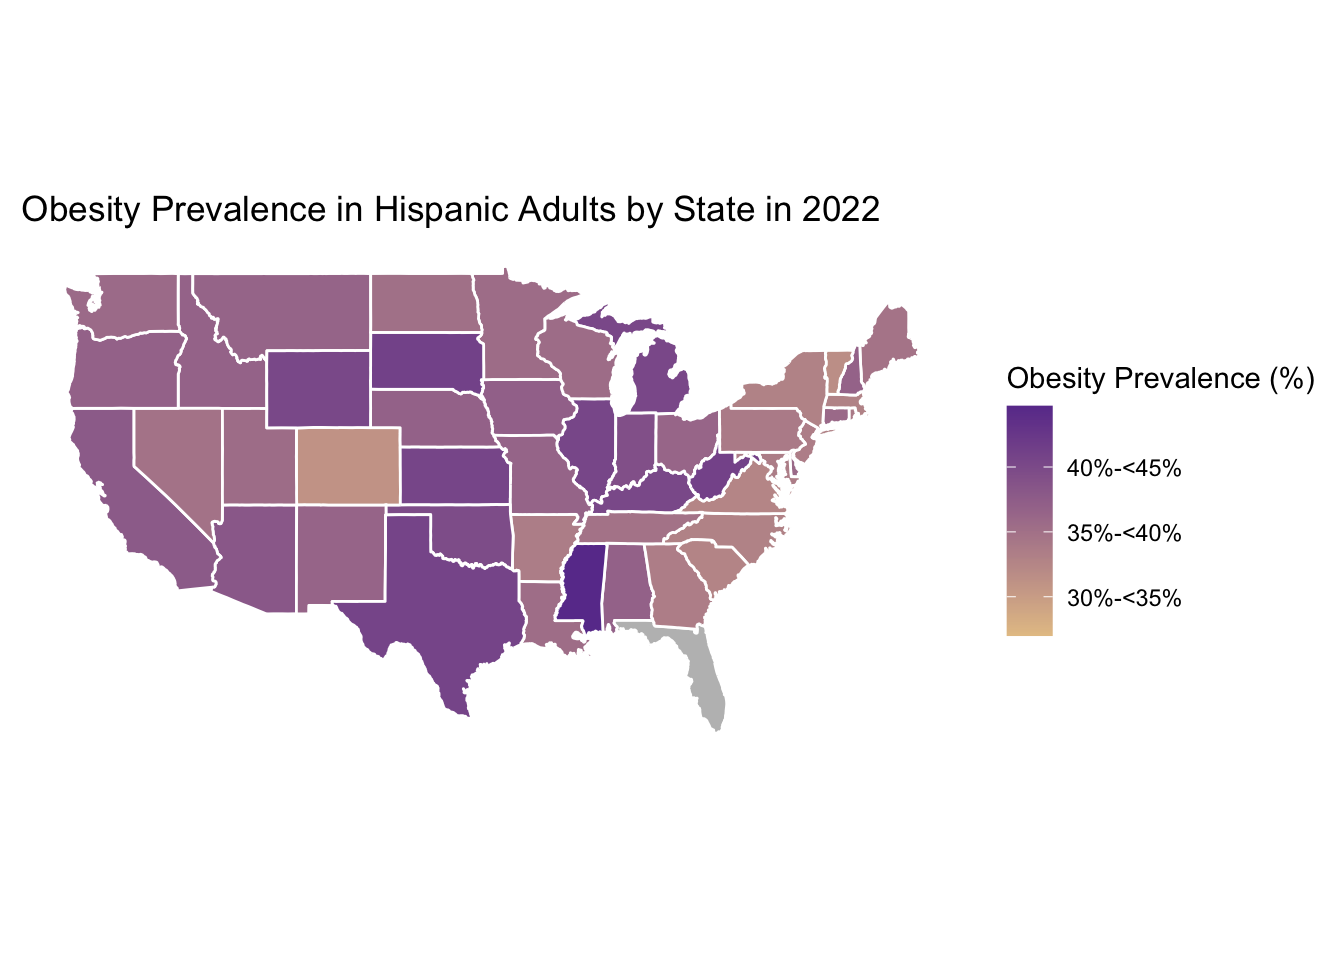
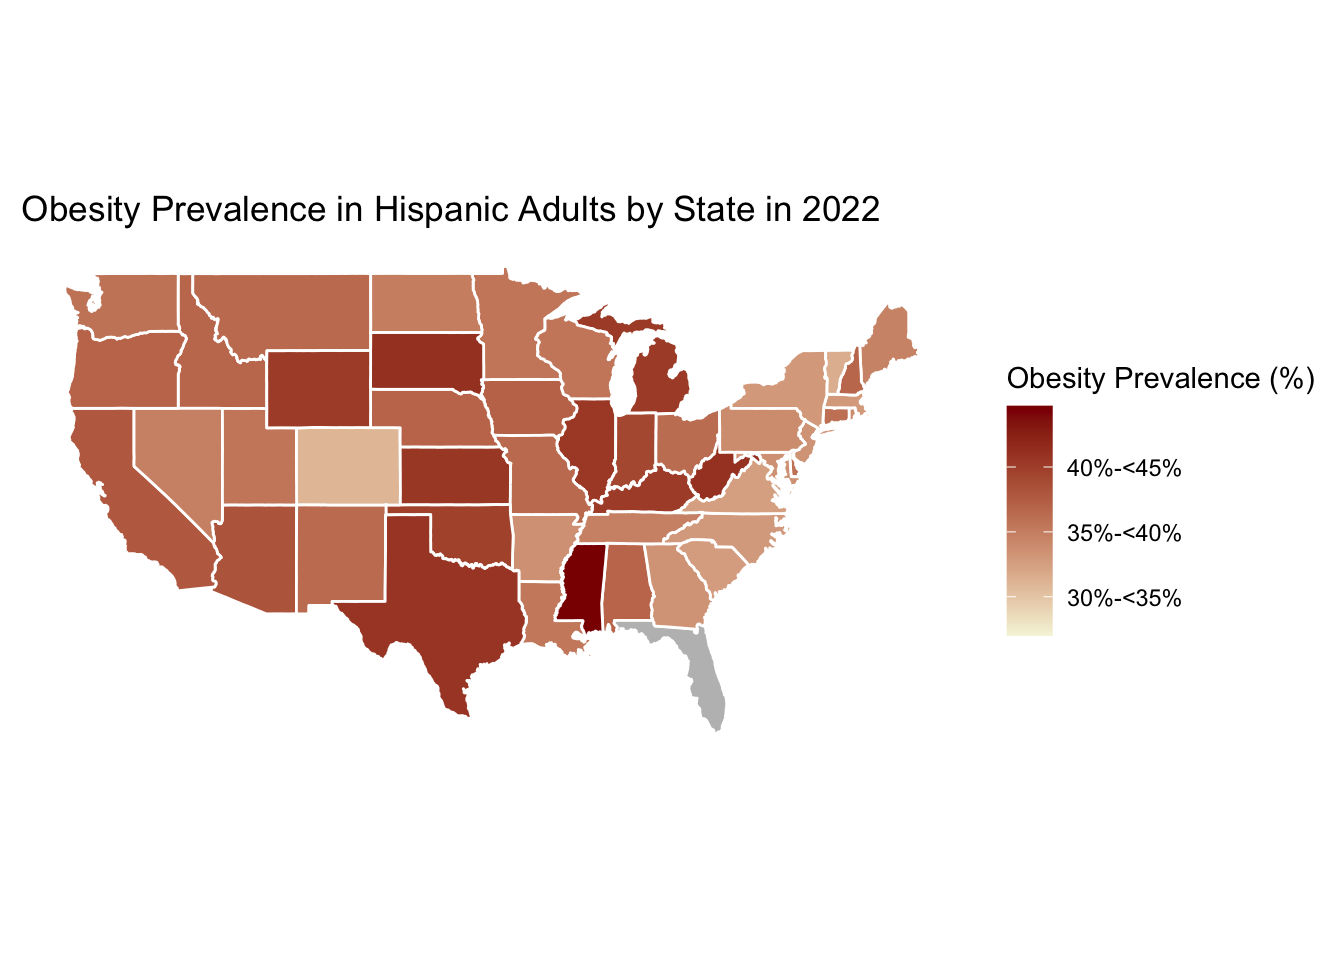
proof read 1.0

Changed region(s): [[0.0312, 0.2812, 0.6875, 0.75], [0.75, 0.4062, 0.7812, 0.6875]]

diff --git a/BRFSS-Analysis.html b/BRFSS-Analysis.html
@@ -11,12 +11,12 @@
 
 
 
-<title>BRFSS Analysis</title>
+<title>Conclusion</title>
 
 <script src="site_libs/header-attrs-2.25/header-attrs.js"></script>
 <script src="site_libs/jquery-3.6.0/jquery-3.6.0.min.js"></script>
 <meta name="viewport" content="width=device-width, initial-scale=1" />
-<link href="site_libs/bootstrap-3.3.5/css/cerulean.min.css" rel="stylesheet" />
+<link href="site_libs/bootstrap-3.3.5/css/journal.min.css" rel="stylesheet" />
 <script src="site_libs/bootstrap-3.3.5/js/bootstrap.min.js"></script>
 <script src="site_libs/bootstrap-3.3.5/shim/html5shiv.min.js"></script>
 <script src="site_libs/bootstrap-3.3.5/shim/respond.min.js"></script>
@@ -328,7 +328,7 @@ div.tocify {
       </ul>
       <ul class="nav navbar-nav navbar-right">
         <li>
-  <a href="BRFSS-Analysis.html">Prevalence US Map</a>
+  <a href="BRFSS-Analysis.html">US Overview</a>
 </li>
 <li>
   <a href="Data-Sources.html">Data Sources</a>
@@ -338,6 +338,9 @@ div.tocify {
 </li>
 <li>
   <a href="p8105-Final-model-analysis.html">Exploratory Analysis</a>
+</li>
+<li>
+  <a href="Conclusion.html">Conclusion</a>
 </li>
 <li>
   <a href="https://github.com/Jodygao/p8105_Final-project_R.git">
@@ -362,66 +365,26 @@ div.tocify {
 
 
 
-<h1 class="title toc-ignore">BRFSS Analysis</h1>
+<h1 class="title toc-ignore">Conclusion</h1>
 
 </div>
 
 
 <div id="data-import" class="section level1">
 <h1>Data Import</h1>
-<pre class="r"><code>overall = read_csv(&quot;data/BRFSS/2022-overall-prevalence.csv&quot;)</code></pre>
-<pre><code>## Rows: 54 Columns: 3
-## ── Column specification ────────────────────────────────────────────────────────
-## Delimiter: &quot;,&quot;
-## chr (2): State, 95% CI
-## dbl (1): Prevalence
-## 
-## ℹ Use `spec()` to retrieve the full column specification for this data.
-## ℹ Specify the column types or set `show_col_types = FALSE` to quiet this message.</code></pre>
-<pre class="r"><code>asian = read_csv(&quot;data/BRFSS/2022-asian.csv&quot;)</code></pre>
-<pre><code>## Rows: 54 Columns: 3
-## ── Column specification ────────────────────────────────────────────────────────
-## Delimiter: &quot;,&quot;
-## chr (3): State, Prevalence, 95% CI
-## 
-## ℹ Use `spec()` to retrieve the full column specification for this data.
-## ℹ Specify the column types or set `show_col_types = FALSE` to quiet this message.</code></pre>
-<pre class="r"><code>black = read_csv(&quot;data/BRFSS/2022-black.csv&quot;)</code></pre>
-<pre><code>## Rows: 54 Columns: 3
-## ── Column specification ────────────────────────────────────────────────────────
-## Delimiter: &quot;,&quot;
-## chr (3): State, Prevalence, 95% CI
-## 
-## ℹ Use `spec()` to retrieve the full column specification for this data.
-## ℹ Specify the column types or set `show_col_types = FALSE` to quiet this message.</code></pre>
-<pre class="r"><code>white = read_csv(&quot;data/BRFSS/2022-white.csv&quot;)</code></pre>
-<pre><code>## Rows: 54 Columns: 3
-## ── Column specification ────────────────────────────────────────────────────────
-## Delimiter: &quot;,&quot;
-## chr (3): State, Prevalence, 95% CI
-## 
-## ℹ Use `spec()` to retrieve the full column specification for this data.
-## ℹ Specify the column types or set `show_col_types = FALSE` to quiet this message.</code></pre>
-<pre class="r"><code>hispanic = read_csv(&quot;data/BRFSS/2022-hispanic.csv&quot;)</code></pre>
-<pre><code>## Rows: 54 Columns: 3
-## ── Column specification ────────────────────────────────────────────────────────
-## Delimiter: &quot;,&quot;
-## chr (3): State, Prevalence, 95% CI
-## 
-## ℹ Use `spec()` to retrieve the full column specification for this data.
-## ℹ Specify the column types or set `show_col_types = FALSE` to quiet this message.</code></pre>
-<pre class="r"><code>states_map = map_data(&quot;state&quot;)</code></pre>
+<pre class="r"><code>overall = read_csv(&quot;data/BRFSS/2022-overall-prevalence.csv&quot;, show_col_types = FALSE)
+asian = read_csv(&quot;data/BRFSS/2022-asian.csv&quot;, show_col_types = FALSE)
+black = read_csv(&quot;data/BRFSS/2022-black.csv&quot;, show_col_types = FALSE)
+white = read_csv(&quot;data/BRFSS/2022-white.csv&quot;, show_col_types = FALSE)
+hispanic = read_csv(&quot;data/BRFSS/2022-hispanic.csv&quot;, show_col_types = FALSE)
+
+states_map = map_data(&quot;state&quot;)</code></pre>
 </div>
 <div id="maps" class="section level1">
 <h1>Maps</h1>
 <div id="overall-obesity" class="section level2">
 <h2>Overall Obesity</h2>
-<pre class="r"><code>display.brewer.all()</code></pre>
-<p><img src="BRFSS-Analysis_files/figure-html/unnamed-chunk-2-1.png" width="672" /></p>
-<pre class="r"><code>color1 = brewer.pal(10, &quot;Paired&quot;)  
-color2 = brewer.pal(8, &quot;Set2&quot;) 
-
-overall = overall |&gt;
+<pre class="r"><code>overall = overall |&gt;
   mutate(State = tolower(State))
 
 overall_map = left_join(states_map, overall, by = c(&quot;region&quot; = &quot;State&quot;))
@@ -435,7 +398,7 @@ ggplot(data = overall_map) +
     breaks = breaks, 
     labels = c(&quot;&lt;20%&quot;, &quot;20%-&lt;25%&quot;, &quot;25%-&lt;30%&quot;, &quot;30%-&lt;35%&quot;, 
                &quot;35%-&lt;40%&quot;, &quot;40%-&lt;45%&quot;, &quot;45%-&lt;50%&quot;, &quot;50%+&quot;),
-    low = color2[7], high = color1[10], na.value = &quot;grey&quot;
+    low = &quot;beige&quot;, high = &quot;darkred&quot;, na.value = &quot;grey&quot;
   ) +
   coord_fixed(1.3) +
   theme_minimal() +
@@ -448,11 +411,10 @@ ggplot(data = overall_map) +
         axis.ticks = element_blank(),
         axis.title.x = element_blank(),
         axis.title.y = element_blank())</code></pre>
-<p><img src="BRFSS-Analysis_files/figure-html/unnamed-chunk-2-2.png" width="672" /></p>
+<p><img src="BRFSS-Analysis_files/figure-html/unnamed-chunk-2-1.png" width="672" /></p>
 </div>
-<div id="maps-obesity-by-raceethnicity---non-hispanic-asian-adults"
-class="section level2">
-<h2>Maps: Obesity by Race/Ethnicity - Non-Hispanic Asian Adults</h2>
+<div id="non-hispanic-asian-adults" class="section level2">
+<h2>Non-Hispanic Asian Adults</h2>
 <pre class="r"><code>asian = asian |&gt;
   mutate(State = tolower(State))
 asian_map = left_join(states_map, asian, by = c(&quot;region&quot; = &quot;State&quot;))
@@ -470,7 +432,7 @@ ggplot(data = asian_map) +
     breaks = breaks, 
     labels = c(&quot;&lt;20%&quot;, &quot;20%-&lt;25%&quot;, &quot;25%-&lt;30%&quot;, &quot;30%-&lt;35%&quot;, 
                &quot;35%-&lt;40%&quot;, &quot;40%-&lt;45%&quot;, &quot;45%-&lt;50%&quot;, &quot;50%+&quot;),
-    low = color2[7], high = color1[10], na.value = &quot;grey&quot;
+    low = &quot;beige&quot;, high = &quot;darkred&quot;, na.value = &quot;grey&quot;
   ) +
   coord_fixed(1.3) +
   theme_minimal() +
@@ -485,9 +447,8 @@ ggplot(data = asian_map) +
         axis.title.y = element_blank())</code></pre>
 <p><img src="BRFSS-Analysis_files/figure-html/unnamed-chunk-3-1.png" width="672" /></p>
 </div>
-<div id="maps-obesity-by-raceethnicity---non-hispanic-black-adults"
-class="section level2">
-<h2>Maps: Obesity by Race/Ethnicity - Non-Hispanic Black Adults</h2>
+<div id="non-hispanic-black-adults" class="section level2">
+<h2>Non-Hispanic Black Adults</h2>
 <pre class="r"><code>black = black |&gt;
   mutate(State = tolower(State))
 black_map = left_join(states_map, black, by = c(&quot;region&quot; = &quot;State&quot;))
@@ -505,7 +466,7 @@ ggplot(data = black_map) +
     breaks = breaks, 
     labels = c(&quot;&lt;20%&quot;, &quot;20%-&lt;25%&quot;, &quot;25%-&lt;30%&quot;, &quot;30%-&lt;35%&quot;, 
                &quot;35%-&lt;40%&quot;, &quot;40%-&lt;45%&quot;, &quot;45%-&lt;50%&quot;, &quot;50%+&quot;),
-     low = color2[7], high = color1[10], na.value = &quot;grey&quot;
+     low = &quot;beige&quot;, high = &quot;darkred&quot;, na.value = &quot;grey&quot;
   ) +
   coord_fixed(1.3) +
   theme_minimal() +
@@ -520,9 +481,8 @@ ggplot(data = black_map) +
         axis.title.y = element_blank())</code></pre>
 <p><img src="BRFSS-Analysis_files/figure-html/unnamed-chunk-4-1.png" width="672" /></p>
 </div>
-<div id="maps-obesity-by-raceethnicity---non-hispanic-white-adults"
-class="section level2">
-<h2>Maps: Obesity by Race/Ethnicity - Non-Hispanic White Adults</h2>
+<div id="non-hispanic-white-adults" class="section level2">
+<h2>Non-Hispanic White Adults</h2>
 <pre class="r"><code>white = white |&gt;
   mutate(State = tolower(State))
 white_map = left_join(states_map, white, by = c(&quot;region&quot; = &quot;State&quot;))
@@ -540,7 +500,7 @@ ggplot(data = white_map) +
     breaks = breaks, 
     labels = c(&quot;&lt;20%&quot;, &quot;20%-&lt;25%&quot;, &quot;25%-&lt;30%&quot;, &quot;30%-&lt;35%&quot;, 
                &quot;35%-&lt;40%&quot;, &quot;40%-&lt;45%&quot;, &quot;45%-&lt;50%&quot;, &quot;50%+&quot;),
-     low = color2[7], high = color1[10], na.value = &quot;grey&quot;
+     low = &quot;beige&quot;, high = &quot;darkred&quot;, na.value = &quot;grey&quot;
   ) +
   coord_fixed(1.3) +
   theme_minimal() +
@@ -555,9 +515,8 @@ ggplot(data = white_map) +
         axis.title.y = element_blank())</code></pre>
 <p><img src="BRFSS-Analysis_files/figure-html/unnamed-chunk-5-1.png" width="672" /></p>
 </div>
-<div id="maps-obesity-by-raceethnicity---hispanic-adults"
-class="section level2">
-<h2>Maps: Obesity by Race/Ethnicity - Hispanic Adults</h2>
+<div id="hispanic-adults" class="section level2">
+<h2>Hispanic Adults</h2>
 <pre class="r"><code>hispanic = hispanic |&gt;
   mutate(State = tolower(State))
 hispanic_map = left_join(states_map, hispanic, by = c(&quot;region&quot; = &quot;State&quot;))
@@ -575,7 +534,7 @@ ggplot(data = hispanic_map) +
     breaks = breaks, 
     labels = c(&quot;&lt;20%&quot;, &quot;20%-&lt;25%&quot;, &quot;25%-&lt;30%&quot;, &quot;30%-&lt;35%&quot;, 
                &quot;35%-&lt;40%&quot;, &quot;40%-&lt;45%&quot;, &quot;45%-&lt;50%&quot;, &quot;50%+&quot;),
-     low = color2[7], high = color1[10], na.value = &quot;grey&quot;
+     low = &quot;beige&quot;, high = &quot;darkred&quot;, na.value = &quot;grey&quot;
   ) +
   coord_fixed(1.3) +
   theme_minimal() +

diff --git a/index.html b/index.html
@@ -60,7 +60,7 @@
                         <!-- <li class="nav-item"><a class="nav-link" href="Report.html">Report</a></li> -->
                         </li>
                          <li class="nav-item dropdown">
-                            <a  href="BRFSS-Analysis.html">Prevalence US Map</a>
+                            <a  href="BRFSS-Analysis.html">US Overview</a>
                             <ul class="dropdown-menu">     
                             
                           </ul>  
@@ -139,7 +139,7 @@
                         <h2>Our Motivation</h2>
                     </div>
                     <div class="about-us-content">
-                        <p4>The increasing prevalence of obesity cases in the United States is becoming a serious public health issue and bringing up lots of adverse comorbidities. The problem that comes with obesity exists not just on an individual level but is more troublesome as it can lead to substantial effects on the overall healthcare system's performance and affect economies across the country. When we talk about obesity nowadays, we can not stop thinking of the burden that associated with it. According to a National Survey published by Forbes Health, between  2017 and 2020, around 41.9% of adults in the United States were obese. <br> <br> With almost half of the adults being obese, Obesity was considered a national epidemic. Concerns like chronic diseases, type 2 diabetes, cardiovascular conditions, and certain forms of cancer, that are linked with obesity, can easily lead to heightened mortality rates and diminished quality of life. The causes of obesity are diverse and complex2, involving genetics, societal, and environmental factors but addressing this public health problem and educating the importance of personal wellness among the obese population in the U.S. is in urgent need.</p4>                   
+                        <p4>The increasing prevalence of obesity cases in the United States is becoming a serious public health issue and bringing up lots of adverse comorbidities. The problem that comes with obesity exists not just on an individual level but is more troublesome as it can lead to substantial effects on the overall healthcare system's performance and affect economies across the country. When we talk about obesity nowadays, we can not stop thinking of the burden that associated with it. According to a National Survey published by Forbes Health, between  2017 and 2020, around 41.9% of adults in the United States were obese. <br> <br> With almost half of the adults being obese, Obesity was considered a national epidemic. Concerns like chronic diseases, type 2 diabetes, cardiovascular conditions, and certain forms of cancer, that are linked with obesity, can easily lead to heightened mortality rates and diminished quality of life. The causes of obesity are diverse and complex, involving genetics, societal, and environmental factors but addressing this public health problem and educating the importance of personal wellness among the obese population in the U.S. is in urgent need.</p4>                   
                     </div>
                 </div>
                 <div class="col-xl-5 col-lg-5 col-md-5 col-sm-12">
